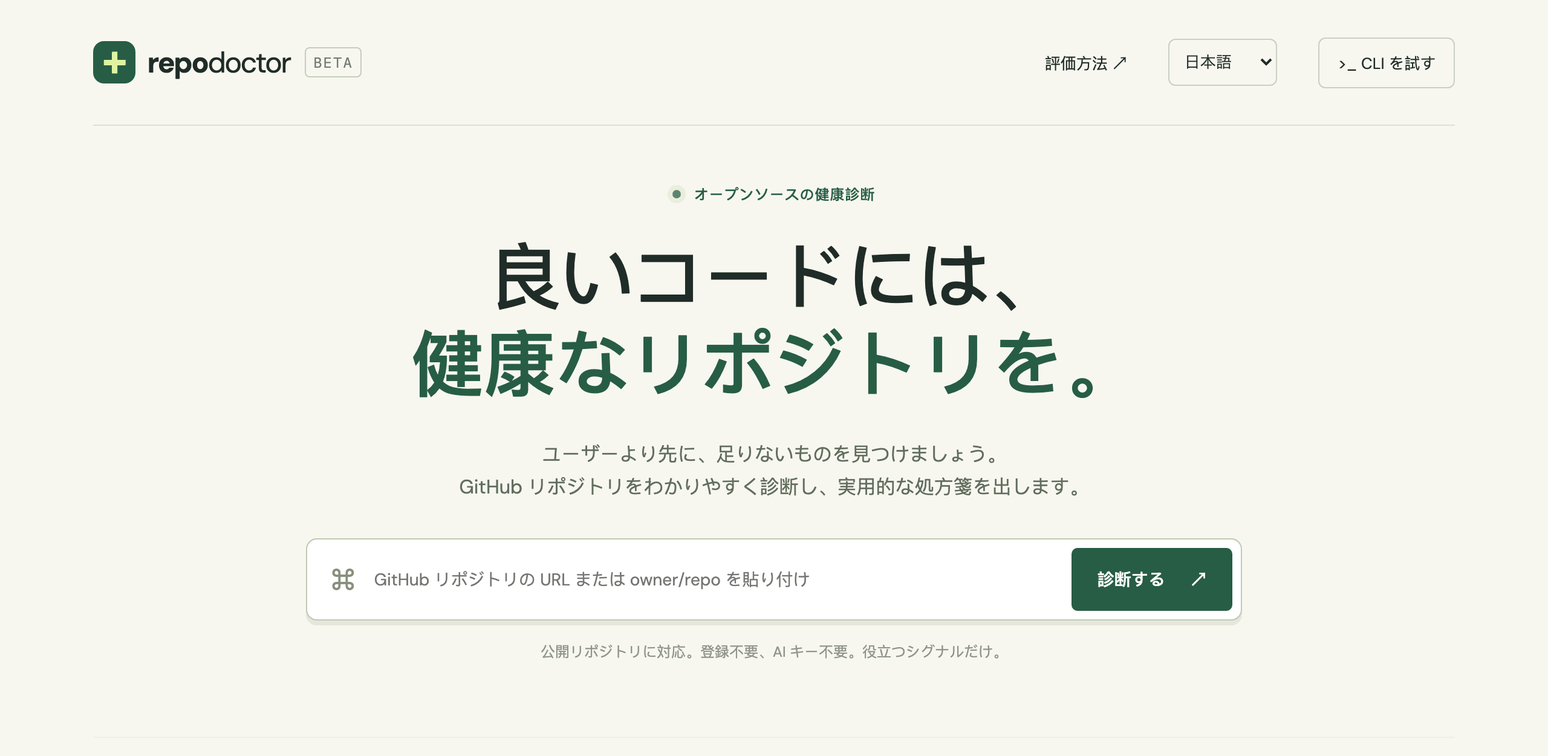
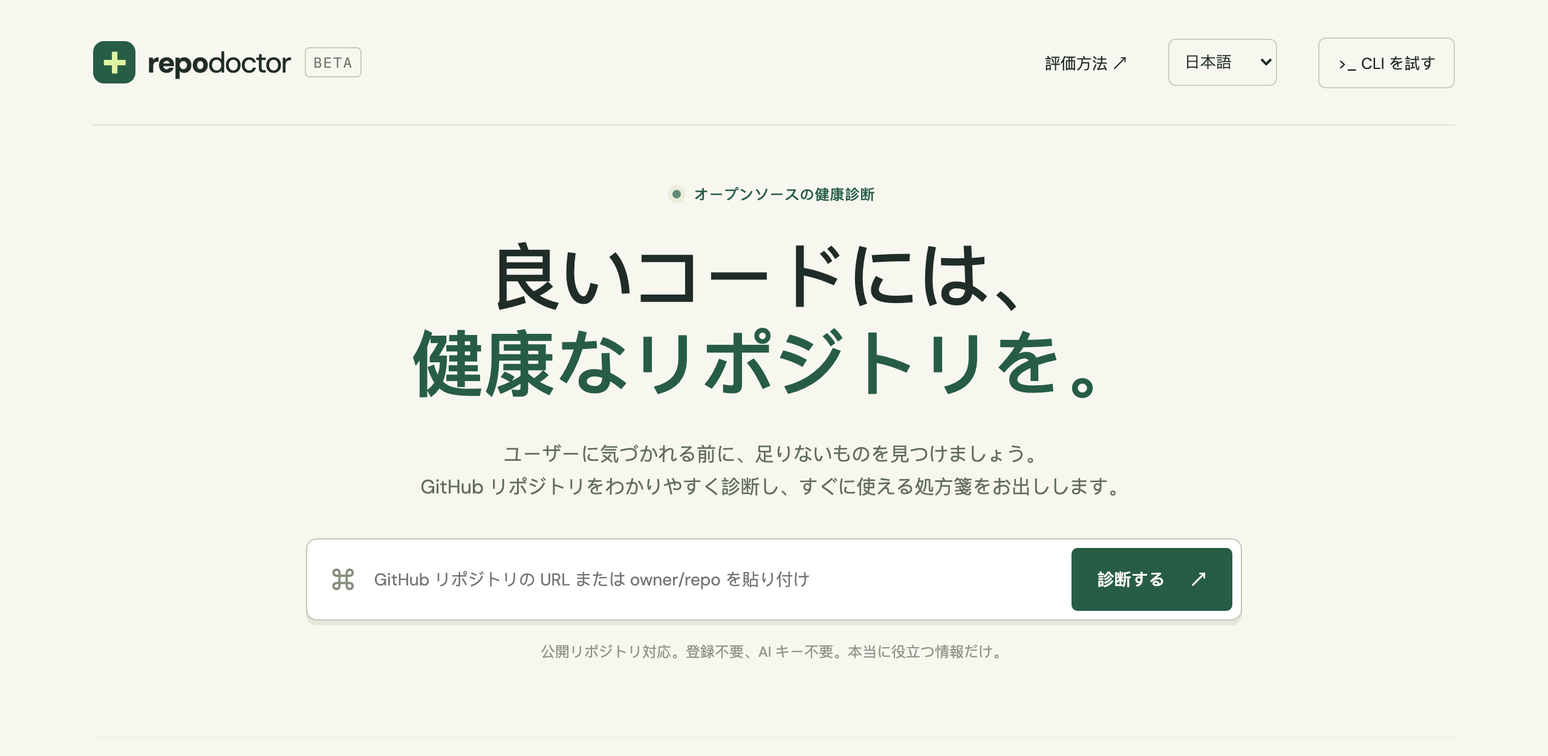
Proofread Chinese and Japanese translations

Changed region(s): [[0.2812, 0.5928, 0.7188, 0.6552], [0.4062, 0.8424, 0.625, 0.8736]]

diff --git a/dist/i18n.js b/dist/i18n.js
@@ -56,40 +56,40 @@ const UI = {
     'hero.intro': '在用户发现之前，找出仓库缺了什么。<br class="desktop">为你的 GitHub 仓库给出清晰的诊断和实用的处方。',
     'input.label': 'GitHub 仓库地址或 owner/repo', 'input.placeholder': '粘贴 GitHub 仓库地址或 owner/repo',
     'scan.button': '开始体检 <span>↗</span>', 'scan.busy': '检查中…',
-    'fine': '支持公开仓库。无需注册，无需 AI Key，只给有用的信号。', 'recent': '最近',
-    'welcome.eyebrow': '细节虽小，第一印象更好', 'welcome.count': '20 项检查 / 5 项指标',
-    'vital.Documentation': '让新用户的前五分钟更轻松。', 'vital.Community': '为贡献者敞开大门。',
-    'vital.CI/CD': '每次提交都值得信赖。', 'vital.Security': '让安全问题有处可报。', 'vital.Structure': '一切井井有条。',
+    'fine': '仅限公开仓库。无需注册，无需 AI Key，只看真正有用的信号。', 'recent': '最近',
+    'welcome.eyebrow': '细节虽小，却决定第一印象', 'welcome.count': '20 项检查 / 5 项指标',
+    'vital.Documentation': '让新用户顺利度过最初五分钟。', 'vital.Community': '为贡献者敞开大门。',
+    'vital.CI/CD': '让每一次提交都值得信赖。', 'vital.Security': '让安全问题有处可报。', 'vital.Structure': '让一切井井有条。',
     'report.eyebrow': '诊断结果', 'report.label': '仓库健康报告', 'mode.label': '报告语气', 'mode.doctor': '✚ 医生', 'mode.roast': '♨ 吐槽',
     'action.link': '⧉ 复制链接', 'action.markdown': '↓ Markdown', 'action.json': '↓ JSON',
-    'score.label': '总体健康度', 'score.outOf': '满分 100', 'score.note': '一点点维护，就能走很远。',
+    'score.label': '总体健康度', 'score.outOf': '满分 100', 'score.note': '日常的一点维护，让项目走得更远。',
     'findings.title': '体检项目', 'filter.label': '筛选检查项', 'filter.all': '全部', 'filter.warn': '需要处理', 'filter.pass': '已通过', 'filter.unknown': '未知',
     'rx.eyebrow': '给仓库一点关爱', 'rx.title': '你的处方', 'rx.intro': '从影响最大的修复开始。链接会打开 GitHub，并准备好文件或设置，由你检查后提交。', 'rx.issue': '＋ 用 GitHub Issue 跟踪这些修复',
-    'badge.eyebrow': '展示一下', 'badge.title': '添加徽章', 'badge.intro': '把这段代码粘贴到 README，点击徽章会重新检查你的仓库。', 'badge.copy': '复制 Markdown',
-    'cli.eyebrow': '在终端里同样好用', 'cli.title': '同一位医生，<br>换个候诊室。', 'cli.intro': '在终端里运行检查。<br>导出 JSON 或 Markdown，在 CI 中设置最低分。', 'cli.comment': '# 在项目目录中运行 · Node.js 22+', 'cli.tag': '零运行时依赖。',
-    'method.eyebrow': '分数不是黑箱', 'method.title': '透明的第二意见。',
-    'method.intro': '20 项检查，总权重 100。我们直接从 GitHub 读取默认分支、README、Release、Issue 和社区资料。每个结论都附有依据。',
+    'badge.eyebrow': '晒出你的分数', 'badge.title': '添加徽章', 'badge.intro': '把这段 Markdown 粘贴到 README 中，别人点击徽章即可查看你仓库的最新体检结果。', 'badge.copy': '复制 Markdown',
+    'cli.eyebrow': '在终端里同样好用', 'cli.title': '同一位医生，<br>换个候诊室。', 'cli.intro': '在终端里运行检查。<br>可导出 JSON 或 Markdown，也可以在 CI 中设置最低分。', 'cli.comment': '# 在项目目录中运行 · Node.js 22+', 'cli.tag': '零运行时依赖。',
+    'method.eyebrow': '分数不是黑箱', 'method.title': '透明、可核查的第二意见。',
+    'method.intro': '共 20 项检查，总分 100。所有数据都直接从 GitHub 读取，包括默认分支、README、Release、Issue 和社区资料。每个结论都附有依据。',
     'method.q1': '分数是怎么算的？',
-    'method.a1': '文档 25 · 社区 20 · CI/CD 20 · 安全 20 · 结构 15。通过的检查项获得相应权重。GitHub 默认会创建 “good first issue” 标签，所以只有真的有 Issue 使用了这个标签才算通过。无法验证的检查项不计入分母，报告会标记为部分检查。缺失的信号只是建议，并不代表项目有问题。',
+    'method.a1': '文档 25 · 社区 20 · CI/CD 20 · 安全 20 · 结构 15。通过的检查项获得相应权重。由于 GitHub 会默认创建 “good first issue” 标签，只有确实有 Issue 使用了该标签才算通过。无法验证的检查项不计入分母，报告会标记为 “检查不完整”。未通过的项目只是改进建议，并不代表项目有问题。',
     'method.q2': '检查什么，不检查什么？',
-    'method.a2': '我们通过元数据、文件路径和 README 内容检查仓库的规范程度。不会执行代码、不验证 CI 结果、不测量测试覆盖率，也不做安全审计。组织级策略和非常规的目录结构可能需要人工确认。每次检查会发送 6 个 GitHub API 请求。',
+    'method.a2': '我们根据元数据、文件路径和 README 内容评估仓库的规范程度，不会执行代码、验证 CI 结果、测量测试覆盖率，也不做安全审计。组织级策略和非常规的目录结构可能需要人工确认。每次检查会发送 6 次 GitHub API 请求。',
     'method.q3': '我的仓库数据会怎样处理？',
     'method.a3': '如果本站服务器配置了 GitHub Token，检查会在服务器上运行，同一仓库的结果最多缓存 10 分钟；否则由你的浏览器直接请求 GitHub（每个 IP 每小时 60 次）。只检查公开仓库，除短暂缓存外不保存任何数据，也绝不会向你索要 Token。私有仓库可以通过 CLI 检查。',
-    'footer.text': '献给创造开源的人。', 'footer.mono': '一点关爱，走得更远 ↗',
+    'footer.text': '献给每一位开源创作者。', 'footer.mono': '多一点关爱，走得更远 ↗',
     'status.connecting': '正在连接 GitHub…', 'status.server': '正在 Repo Doctor 服务器上检查…',
     'status.Finding repository': '正在查找仓库…', 'status.Reading README, project files, and community signals': '正在读取 README、项目文件和社区信息…',
-    'status.done': '检查完成 · 共 {n} 项', 'status.partial': ' · 部分数据无法验证',
-    'status.quota': ' · 本小时还可发送 {n} 个 GitHub API 请求', 'status.keep': '新的检查失败了，下方仍显示 {repo} 的上一份报告。',
+    'status.done': '检查完成 · 已检查 {n} 项', 'status.partial': ' · 部分数据无法验证',
+    'status.quota': ' · 本小时剩余 {n} 次 GitHub API 请求', 'status.keep': '本次检查失败，下方仍是 {repo} 的上一份报告。',
     'err.rate_limit': '已达到 GitHub 每小时请求上限，请在 {time} 之后再试。', 'err.rate_limit_soon': '已达到 GitHub 每小时请求上限，请稍后再试。',
-    'err.not_found': '找不到这个仓库。请检查拼写——这里只能检查公开仓库。',
+    'err.not_found': '找不到该仓库。请检查拼写，并确认它是公开仓库。',
     'err.timeout': 'GitHub 响应超时，请重试。', 'err.network': '无法连接 GitHub，请检查网络后重试。',
     'err.denied': 'GitHub 拒绝了这个请求，请稍后再试。', 'err.bad_input': '请输入 owner/repo 或 GitHub 地址，例如 shianjeng/repo-doctor。',
     'err.busy': '正在检查中，请稍候。',
     'copy.done': '已复制 ✓', 'copy.fail': '复制失败', 'copy.badge': '复制徽章',
-    'meta.line': '{language} · {stars} 星 · 检查于 {date}', 'meta.mixed': '多种语言',
-    'coverage': '{total} 项中通过 {passed} 项 · 评分覆盖率 {coverage}%',
+    'meta.line': '{language} · {stars} 个 Star · 检查于 {date}', 'meta.mixed': '多种语言',
+    'coverage': '通过 {passed}/{total} 项 · 评分覆盖率 {coverage}%',
     'status.pass': '良好', 'status.warn': '需要处理', 'status.unknown': '未知', 'rx.label': '处方：',
-    'points': '{n} 分', 'rx.none': '没有发现缺失项。请继续保持文档和检查的更新。', 'filter.empty': '没有符合筛选条件的检查项。',
+    'points': '{n} 分', 'rx.none': '没有发现缺失项。记得持续更新文档和检查配置。', 'filter.empty': '没有符合筛选条件的检查项。',
     'doc.title': '{repo}：{score}/100 · Repo Doctor',
   },
   ja: {
@@ -97,21 +97,21 @@ const UI = {
     'nav.method': '評価方法 ↗', 'nav.cli': '>_ CLI を試す', 'nav.language': '言語',
     'hero.eyebrow': 'オープンソースの健康診断',
     'hero.title': '良いコードには、<br><em>健康なリポジトリを。</em>',
-    'hero.intro': 'ユーザーより先に、足りないものを見つけましょう。<br class="desktop">GitHub リポジトリをわかりやすく診断し、実用的な処方箋を出します。',
+    'hero.intro': 'ユーザーに気づかれる前に、足りないものを見つけましょう。<br class="desktop">GitHub リポジトリをわかりやすく診断し、すぐに使える処方箋をお出しします。',
     'input.label': 'GitHub リポジトリの URL または owner/repo', 'input.placeholder': 'GitHub リポジトリの URL または owner/repo を貼り付け',
     'scan.button': '診断する <span>↗</span>', 'scan.busy': '診断中…',
-    'fine': '公開リポジトリに対応。登録不要、AI キー不要。役立つシグナルだけ。', 'recent': '最近',
+    'fine': '公開リポジトリ対応。登録不要、AI キー不要。本当に役立つ情報だけ。', 'recent': '最近',
     'welcome.eyebrow': '小さな工夫で、第一印象が変わる', 'welcome.count': '20 項目 / 5 つの指標',
-    'vital.Documentation': '最初の 5 分をスムーズに。', 'vital.Community': 'コントリビューターを歓迎する。',
+    'vital.Documentation': '最初の 5 分をスムーズに。', 'vital.Community': 'コントリビューターを迎え入れる。',
     'vital.CI/CD': 'コミットごとに信頼を築く。', 'vital.Security': '脆弱性報告の窓口を用意する。', 'vital.Structure': 'すべてをあるべき場所に。',
     'report.eyebrow': '診断結果', 'report.label': 'リポジトリ健康レポート', 'mode.label': 'レポートの口調', 'mode.doctor': '✚ ドクター', 'mode.roast': '♨ 辛口',
     'action.link': '⧉ リンクをコピー', 'action.markdown': '↓ Markdown', 'action.json': '↓ JSON',
     'score.label': '総合スコア', 'score.outOf': '100 点満点', 'score.note': '少しの手入れが、大きな違いに。',
     'findings.title': '診断項目', 'filter.label': '項目を絞り込む', 'filter.all': 'すべて', 'filter.warn': '要対応', 'filter.pass': '合格', 'filter.unknown': '不明',
     'rx.eyebrow': 'リポジトリにちょっとしたケアを', 'rx.title': '処方箋', 'rx.intro': '効果の大きいものから始めましょう。リンクを開くと、ファイルや設定が準備された GitHub の画面が表示されます。内容を確認してから保存してください。', 'rx.issue': '＋ GitHub Issue で対応を管理',
-    'badge.eyebrow': 'シェアしよう', 'badge.title': 'バッジを追加', 'badge.intro': 'README に貼り付けてください。バッジをクリックすると最新の診断が開きます。', 'badge.copy': 'Markdown をコピー',
+    'badge.eyebrow': 'スコアを見せよう', 'badge.title': 'バッジを追加', 'badge.intro': 'この Markdown を README に貼り付けてください。バッジをクリックすると、リポジトリの最新の診断結果が開きます。', 'badge.copy': 'Markdown をコピー',
     'cli.eyebrow': 'ターミナルでも使える', 'cli.title': '同じドクター、<br>別の待合室。', 'cli.intro': 'ターミナルから診断できます。<br>JSON や Markdown で出力し、CI で最低スコアを設定できます。', 'cli.comment': '# プロジェクトのディレクトリで実行 · Node.js 22+', 'cli.tag': 'ランタイム依存ゼロ。',
-    'method.eyebrow': 'スコアはブラックボックスではありません', 'method.title': '透明なセカンドオピニオン。',
+    'method.eyebrow': 'スコアはブラックボックスではありません', 'method.title': '根拠が見える、セカンドオピニオン。',
     'method.intro': '合計 100 点、20 項目のチェック。デフォルトブランチ、README、リリース、Issue、コミュニティ情報を GitHub から直接読み取ります。すべての結果に根拠を示します。',
     'method.q1': 'スコアはどう計算されますか？',
     'method.a1': 'ドキュメント 25 · コミュニティ 20 · CI/CD 20 · セキュリティ 20 · 構成 15。合格した項目の配点が加算されます。“good first issue” ラベルは GitHub が自動で作成するため、実際に Issue で使われている場合のみ合格です。確認できなかった項目は分母から除外され、レポートは「部分的な診断」と表示されます。未達の項目は提案であり、プロジェクトに問題がある証拠ではありません。',
@@ -123,17 +123,17 @@ const UI = {
     'status.connecting': 'GitHub に接続しています…', 'status.server': 'Repo Doctor のサーバーで診断しています…',
     'status.Finding repository': 'リポジトリを探しています…', 'status.Reading README, project files, and community signals': 'README、ファイル、コミュニティ情報を読み込んでいます…',
     'status.done': '診断完了 · {n} 項目を確認', 'status.partial': ' · 一部のデータを確認できませんでした',
-    'status.quota': ' · この 1 時間の GitHub API 残り {n} 回', 'status.keep': '新しい診断に失敗しました。{repo} の前回のレポートを表示しています。',
+    'status.quota': ' · この 1 時間の GitHub API 残り {n} 回', 'status.keep': '診断に失敗しました。下には {repo} の前回のレポートが表示されています。',
     'err.rate_limit': 'GitHub の 1 時間あたりのリクエスト上限に達しました。{time} 以降にもう一度お試しください。', 'err.rate_limit_soon': 'GitHub の 1 時間あたりのリクエスト上限に達しました。しばらくしてからお試しください。',
-    'err.not_found': 'リポジトリが見つかりません。スペルを確認してください。診断できるのは公開リポジトリのみです。',
+    'err.not_found': 'リポジトリが見つかりません。スペルと、公開リポジトリであることをご確認ください。',
     'err.timeout': 'GitHub の応答がタイムアウトしました。もう一度お試しください。', 'err.network': 'GitHub に接続できません。ネットワークを確認してもう一度お試しください。',
     'err.denied': 'GitHub がリクエストを拒否しました。しばらくしてからお試しください。', 'err.bad_input': 'owner/repo または GitHub の URL を入力してください（例：shianjeng/repo-doctor）。',
     'err.busy': '診断中です。しばらくお待ちください。',
     'copy.done': 'コピーしました ✓', 'copy.fail': 'コピーに失敗しました', 'copy.badge': 'バッジをコピー',
     'meta.line': '{language} · スター {stars} · {date} に診断', 'meta.mixed': '複数の言語',
-    'coverage': '{total} 項目中 {passed} 項目合格 · 採点カバー率 {coverage}%',
+    'coverage': '{passed}/{total} 項目合格 · 採点カバー率 {coverage}%',
     'status.pass': '良好', 'status.warn': '要対応', 'status.unknown': '不明', 'rx.label': '処方：',
-    'points': '{n} 点', 'rx.none': '不足している項目は見つかりませんでした。ドキュメントとチェックを最新に保ちましょう。', 'filter.empty': '条件に合う項目はありません。',
+    'points': '{n} 点', 'rx.none': '不足している項目はありません。ドキュメントとチェック設定を最新に保ちましょう。', 'filter.empty': '条件に合う項目はありません。',
     'doc.title': '{repo}：{score}/100 · Repo Doctor',
   },
 };
@@ -141,16 +141,16 @@ const UI = {
 const REPORT = {
   zh: {
     category: { Documentation: '文档', Community: '社区', 'CI/CD': 'CI/CD', Security: '安全', Structure: '结构' },
-    health: { Healthy: '健康', 'Needs attention': '需要关注', 'Needs care': '需要护理', 'Partial check': '部分检查' },
+    health: { Healthy: '健康', 'Needs attention': '有待改进', 'Needs care': '亟需改善', 'Partial check': '检查不完整' },
     title: {
       readme: 'README', installation: '安装说明', usage: '使用示例', demo: '演示或预览图', badge: 'CI 状态徽章',
       license: '许可证', contributing: '贡献指南', conduct: '行为准则', templates: 'Issue 模板', 'first-issue': '新手友好 Issue',
       ci: 'CI 配置', tests: '测试文件', releases: '已发布的 Release', security: '安全策略', dependencies: '依赖更新配置',
-      'security-automation': '安全扫描工作流', manifest: '项目清单文件', lockfile: '依赖锁文件', layout: '清晰的目录结构', editor: '格式化配置',
+      'security-automation': '安全扫描工作流', manifest: '项目清单（manifest）', lockfile: '依赖锁文件', layout: '清晰的目录结构', editor: '代码格式化配置',
     },
     fix: {
       readme: '写一份 README，说明项目做什么、给谁用、如何上手。',
-      installation: '添加 “安装” 或 “快速开始” 章节，附上经过测试、可直接复制的命令。',
+      installation: '添加 “安装” 或 “快速开始” 章节，附上经过验证、可直接复制的命令。',
       usage: '在 “用法” 标题下展示一个最小的输入 / 输出示例。',
       demo: '在安装说明上方添加截图、演示 GIF 或在线演示链接，或设置仓库的网站地址。',
       badge: '添加一个链接到工作流结果的 CI 状态徽章。',
@@ -164,8 +164,8 @@ const REPORT = {
       releases: '发布一个带版本号的 GitHub Release，附上安装说明和更新内容。',
       security: '添加 SECURITY.md，说明支持的版本和私下报告漏洞的方式。',
       dependencies: '为项目使用的依赖生态配置 Dependabot 或 Renovate。',
-      'security-automation': '添加合适的安全扫描工具，或手动确认已开启 GitHub 默认设置。',
-      manifest: '添加标准的包管理 / 构建清单文件，或说明仓库的组织方式。',
+      'security-automation': '添加合适的安全扫描工具，或手动确认已开启 GitHub 的默认代码扫描。',
+      manifest: '添加标准的包管理或构建配置文件（如 package.json、pyproject.toml），或在文档中说明仓库结构。',
       lockfile: '在适合你的生态和发布方式时，提交依赖锁文件。',
       layout: '把源码、文档或示例放进命名清晰的目录。',
       editor: '添加 .editorconfig 或对应生态的格式化配置。',
@@ -173,14 +173,14 @@ const REPORT = {
     evidence: {
       unknown: '无法从现有的 GitHub 数据中确认这一项。',
       'readme.pass': 'GitHub 返回了非空的 README。', 'readme.warn': '没有找到可读取的 README。',
-      installation: '已在 README 中查找安装或快速开始说明。', usage: '已在 README 中查找用法或示例标题。',
+      installation: '已在 README 中查找安装或快速开始的说明。', usage: '已在 README 中查找用法或示例标题。',
       'demo.site': '仓库网站：{url}', demo: '已在 README 中查找非徽章的图片、视频或演示链接，并检查了仓库网站字段。',
       badge: '已在 README 中查找可识别的 CI 徽章地址。',
       'license.spdx': 'GitHub 识别为 {spdx}。', license: '已检查 GitHub 元数据和常见的许可证文件；文件存在不代表法律上有效。',
       contributing: '已检查仓库和 GitHub 社区资料中的贡献指南文件。', conduct: '已检查仓库和 GitHub 社区资料中的行为准则文件。',
       templates: '已查找 Issue 模板和 Issue 表单。',
-      'first-issue.disabled': 'Issue 功能已关闭，新人无从下手。', 'first-issue': '查找了至少一个带 “good first issue” 标签的 Issue（开启或关闭均可）。GitHub 默认会创建这个标签，所以只有标签本身不算。',
-      ci: '识别到自动化配置文件。未验证工作流是否运行或通过。', tests: '已查找常见的测试路径和文件名；未测量覆盖率和正确性。',
+      'first-issue.disabled': '仓库关闭了 Issue 功能，新人无从下手。', 'first-issue': '查找了至少一个带 “good first issue” 标签的 Issue（开启或关闭均可）。GitHub 默认会创建这个标签，所以只有标签本身不算。',
+      ci: '识别到了自动化配置文件，但未验证工作流是否运行或通过。', tests: '已查找常见的测试路径和文件名；未测量覆盖率和正确性。',
       'releases.tag': '最新正式版本：{tag}。', releases: '没有找到已发布的正式 GitHub Release（非草稿、非预发布）。',
       security: '已在仓库中查找 SECURITY.md 或同类安全策略文件。', dependencies: '已查找 Dependabot 或 Renovate 配置。组织级设置在这里不可见。',
       'security-automation': '根据工作流文件名判断，属于启发式检查。默认设置和组织级扫描可能不可见。',
@@ -207,34 +207,34 @@ const REPORT = {
     sources: { tree: '文件树', readme: 'README', community: '社区资料', release: 'Release', firstIssues: 'good first issue' },
     roast: {
       readme: '你的代码加入了证人保护计划。写个 README，大家才知道它是干什么的。',
-      ci: '没有 CI？真勇敢。每次合并都是一次没人接的信任背摔。',
-      security: '你的仓库有前门，却没装安全问题的门铃。给善意的黑客留个敲门的地方吧。',
+      ci: '没有 CI？真勇敢。每次合并都像在走没有安全绳的钢丝。',
+      security: '你的仓库有大门，却没装报告漏洞的门铃。给善意的黑客留个敲门的地方吧。',
       license: '没有许可证就等于 “保留所有权利”。你建了个游乐场，又在外面围了一圈栅栏。',
-      tests: '“在我电脑上能跑” 扛下了太多。让测试分担一点吧。',
-      contributing: '你邀请全世界来协作，却忘了发路线图。',
+      tests: '“在我电脑上能跑” 已经扛下了太多，让测试来分担一点吧。',
+      contributing: '你邀请全世界来协作，却忘了告诉大家该怎么参与。',
       installation: '项目很棒。要是有人知道怎么安装就更好了。',
-      usage: '装上了！然后……全凭感觉。告诉大家到底该输入什么。',
-      releases: '没有 Release，只有一个 main 分支和一句祈祷。打个标签吧，未来的你会感谢现在的你。',
-      demo: 'README 写了一千行，却没有一张图。给你的项目来个特写吧。',
-      dependencies: '你的依赖像牛奶一样在变质，却没人看保质期。让机器人来盯着吧。',
-      partial: '化验结果不完整。吐槽也得讲证据。',
-      minor: '只剩一点文书工作了。很难吐槽一个每天都用牙线的仓库。',
-      clean: '体面得令人恼火。你让这次吐槽变得相当困难。',
+      usage: '装好了！然后呢……全靠猜。告诉大家到底该怎么用吧。',
+      releases: '没有 Release，只有一个 main 分支和满心祈祷。打个版本标签吧，未来的你会感谢现在的你。',
+      demo: 'README 写了上千字，却一张图都没有。给你的项目来个特写吧。',
+      dependencies: '你的依赖正像牛奶一样慢慢变质，却没人看保质期。交给机器人盯着吧。',
+      partial: '化验结果还不完整。吐槽也得讲证据。',
+      minor: '只剩一些零碎的小事了。这么爱干净的仓库，实在不好下嘴吐槽。',
+      clean: '完美得让人有点恼火，这下真不知道该吐槽什么了。',
     },
-    disclaimer: '这是仓库规范程度的信号，不是安全审计或代码质量保证。文件检测是启发式的；未验证 CI 结果和测试覆盖率。',
+    disclaimer: '以上是反映仓库规范程度的信号，不是安全审计，也不代表代码质量。文件检测基于经验规则，不验证 CI 结果和测试覆盖率。',
   },
   ja: {
     category: { Documentation: 'ドキュメント', Community: 'コミュニティ', 'CI/CD': 'CI/CD', Security: 'セキュリティ', Structure: '構成' },
-    health: { Healthy: '健康', 'Needs attention': '要注意', 'Needs care': '要ケア', 'Partial check': '部分的な診断' },
+    health: { Healthy: '健康', 'Needs attention': '要注意', 'Needs care': '要改善', 'Partial check': '部分的な診断' },
     title: {
       readme: 'README', installation: 'インストール手順', usage: '使用例', demo: 'デモ・プレビュー', badge: 'CI ステータスバッジ',
-      license: 'ライセンス', contributing: 'コントリビューションガイド', conduct: '行動規範', templates: 'Issue テンプレート', 'first-issue': 'Good first issue',
+      license: 'ライセンス', contributing: 'コントリビューションガイド', conduct: '行動規範', templates: 'Issue テンプレート', 'first-issue': '初心者向け Issue',
       ci: 'CI 設定', tests: 'テストファイル', releases: '公開済みリリース', security: 'セキュリティポリシー', dependencies: '依存関係の更新設定',
-      'security-automation': 'セキュリティスキャン', manifest: 'プロジェクトマニフェスト', lockfile: 'ロックファイル', layout: '整理されたディレクトリ', editor: 'フォーマット設定',
+      'security-automation': 'セキュリティスキャンの設定', manifest: 'プロジェクトマニフェスト', lockfile: 'ロックファイル', layout: '整理されたディレクトリ構成', editor: 'フォーマット設定',
     },
     fix: {
       readme: 'プロジェクトの内容、対象ユーザー、始め方を説明する README を書きましょう。',
-      installation: '動作確認済みでコピーしやすいコマンド付きの「インストール」または「クイックスタート」を追加しましょう。',
+      installation: '「インストール」または「クイックスタート」の節を追加し、動作確認済みのコマンドをそのままコピーできるようにしましょう。',
       usage: '「使い方」の見出しの下に、最小限の入力と出力の例を載せましょう。',
       demo: 'インストール手順の上にスクリーンショット、デモ GIF、ライブデモのリンクを追加するか、リポジトリのウェブサイトを設定しましょう。',
       badge: 'ワークフローの結果にリンクする CI ステータスバッジを追加しましょう。',
@@ -242,14 +242,14 @@ const REPORT = {
       contributing: '環境構築、チェック方法、プルリクエストの流れを書いた CONTRIBUTING.md を追加しましょう。',
       conduct: 'CODE_OF_CONDUCT.md と、実際に使える非公開の報告窓口を用意しましょう。',
       templates: '.github/ISSUE_TEMPLATE/ にバグ報告と機能要望のテンプレートを追加しましょう。',
-      'first-issue': '小さくて説明の明確なタスクに good first issue ラベルを付け、新しい人が始めやすくしましょう。',
+      'first-issue': '小さく、説明の明確なタスクに good first issue ラベルを付けて、初めての人が参加しやすくしましょう。',
       ci: 'プッシュとプルリクエストでチェックを実行する CI ワークフローを追加しましょう。',
       tests: '主要な使い方をカバーするテストを追加し、CI で実行しましょう。',
       releases: 'インストール方法と変更点を記載したバージョン付きの GitHub リリースを公開しましょう。',
       security: 'サポート対象のバージョンと非公開の脆弱性報告方法を書いた SECURITY.md を追加しましょう。',
       dependencies: '使用しているエコシステム向けに Dependabot または Renovate を設定しましょう。',
       'security-automation': '適切なセキュリティスキャナーを追加するか、GitHub のデフォルト設定が有効か手動で確認しましょう。',
-      manifest: '標準的なパッケージ/ビルドのマニフェストを追加するか、リポジトリの構成を説明しましょう。',
+      manifest: 'package.json や pyproject.toml などの標準的なパッケージ・ビルド設定を追加するか、リポジトリの構成を説明しましょう。',
       lockfile: 'エコシステムや配布方法に合う場合は、ロックファイルをコミットしましょう。',
       layout: 'ソース、ドキュメント、サンプルをわかりやすい名前のディレクトリにまとめましょう。',
       editor: '.editorconfig またはエコシステムに合ったフォーマッターの設定を追加しましょう。',
@@ -263,7 +263,7 @@ const REPORT = {
       'license.spdx': 'GitHub が {spdx} と判定しました。', license: 'GitHub のメタデータと一般的なライセンスファイルを確認しました。ファイルがあっても法的な有効性は保証されません。',
       contributing: 'リポジトリと GitHub のコミュニティ情報でコントリビューションガイドを確認しました。', conduct: 'リポジトリと GitHub のコミュニティ情報で行動規範を確認しました。',
       templates: 'Issue テンプレートと Issue フォームを確認しました。',
-      'first-issue.disabled': 'Issue が無効になっているため、新しい人が始める場所がありません。', 'first-issue': '“good first issue” ラベル付きの Issue（オープン・クローズ問わず）を探しました。ラベル自体は GitHub が自動で作成するため、ラベルだけでは合格になりません。',
+      'first-issue.disabled': 'Issue が無効になっているため、初めての人が参加するきっかけがありません。', 'first-issue': '“good first issue” ラベル付きの Issue（オープン・クローズ問わず）を探しました。ラベル自体は GitHub が自動で作成するため、ラベルだけでは合格になりません。',
       ci: '自動化の設定ファイルを検出しました。ワークフローの実行や成功は確認していません。', tests: '一般的なテストのパスとファイル名を確認しました。カバレッジや正しさは測定していません。',
       'releases.tag': '最新の正式リリース：{tag}。', releases: '公開済みの正式な GitHub リリース（下書き・プレリリース以外）が見つかりませんでした。',
       security: 'SECURITY.md または同等のポリシーファイルを確認しました。', dependencies: 'Dependabot または Renovate の設定を確認しました。組織レベルの設定はここでは見えません。',
@@ -291,21 +291,21 @@ const REPORT = {
     sources: { tree: 'ファイルツリー', readme: 'README', community: 'コミュニティ情報', release: 'リリース', firstIssues: 'good first issue' },
     roast: {
       readme: 'あなたのコードは証人保護プログラムに入ったようです。README があれば、何をするものか分かるのですが。',
-      ci: 'CI なし？ 大胆ですね。毎回のマージが、誰も受け止めてくれないトラストフォールです。',
-      security: '玄関はあるのに、セキュリティ報告用の呼び鈴がありません。善意のハッカーがノックできる場所を。',
-      license: 'ライセンスがなければ「無断使用禁止」。遊び場をつくって、周りをフェンスで囲んだ状態です。',
+      ci: 'CI なし？ 大胆ですね。毎回のマージが、命綱なしの綱渡りです。',
+      security: '玄関はあるのに、脆弱性を知らせる呼び鈴がありません。善意のハッカーがノックできる場所を用意しましょう。',
+      license: 'ライセンスがなければ「無断使用禁止」と同じ。遊び場をつくったのに、周りをフェンスで囲っているようなものです。',
       tests: '「自分の環境では動く」に頼りすぎです。少しはテストに任せましょう。',
       contributing: '世界中を共同作業に招待したのに、道案内を送り忘れています。',
-      installation: '素晴らしいプロジェクトです。インストール方法さえ分かれば。',
-      usage: 'インストールできた！ そして……あとは雰囲気で。何を入力すればいいか教えてください。',
+      installation: '素晴らしいプロジェクトです。インストール方法さえ分かれば、の話ですが。',
+      usage: 'インストールできた！ で、次は……勘で使うしかありません。何を入力すればいいか教えてあげましょう。',
       releases: 'リリースなし。あるのは main ブランチと祈りだけ。タグを打てば、未来の自分が感謝します。',
-      demo: 'README は千行あるのに、見せ場がありません。プロジェクトにクローズアップを。',
-      dependencies: '依存関係が牛乳のように傷んでいくのに、誰も賞味期限を見ていません。ボットに任せましょう。',
+      demo: 'README は長いのに、画像が一枚もありません。スクリーンショットで主役を見せてあげましょう。',
+      dependencies: '依存関係が牛乳のように傷んでいくのに、誰も賞味期限を見ていません。チェックはボットに任せましょう。',
       partial: '検査結果が揃っていません。辛口にも証拠が必要です。',
-      minor: '残りは細かい書類仕事だけ。毎日フロスするリポジトリは、いじりにくいものです。',
-      clean: '悔しいほど立派です。辛口コメントがかなり難しくなりました。',
+      minor: '残るは細かい作業だけ。ここまで手入れが行き届いていると、ツッコミようがありません。',
+      clean: '悔しいほど完璧です。これでは辛口のネタがありません。',
     },
-    disclaimer: 'リポジトリの整備状況を示すシグナルであり、セキュリティ監査やコード品質の保証ではありません。ファイル検出は推定に基づき、CI の結果やテストカバレッジは検証していません。',
+    disclaimer: 'この結果はリポジトリの整備状況を示す目安であり、セキュリティ監査やコード品質を保証するものではありません。ファイルの検出は推定に基づくもので、CI の結果やテストカバレッジは検証していません。',
   },
 };
 

diff --git a/README.zh-CN.md b/README.zh-CN.md
@@ -14,14 +14,14 @@
 
 [![Repo Doctor 首页](docs/images/hero-zh.png)](https://repo-doctor.hank-vermilion.workers.dev/?lang=zh)
 
-20 项透明的检查，5 项健康指标，附带一键修复的实用处方，还有可选的温和吐槽模式。**不需要 AI Key，没有运行时依赖。**
+20 项透明的检查，5 项健康指标，附带可一键修复的实用处方，还有可选的吐槽模式。**不需要 AI Key，没有运行时依赖。**
 
 - **一键修复**：每个问题都链接到 GitHub 上对应的修复页面。SECURITY.md、CONTRIBUTING.md、CI 工作流、dependabot.yml 等会预先填好模板，由你检查后提交。
-- **可分享的报告**：`?repo=owner/repo` 链接打开时会重新检查；可导出 Markdown 或 JSON。
-- **README 徽章**：展示你的分数，点击徽章会重新检查。
+- **可分享的报告**：打开 `?repo=owner/repo` 链接即可查看最新检查结果，也可导出 Markdown 或 JSON。
+- **README 徽章**：在 README 中展示分数，点击徽章即可查看最新结果。
 - **跟踪修复**：一键把处方变成带勾选框的 GitHub Issue。
 - **English、简体中文、日本語**：网站会跟随浏览器语言，也可以随时切换。
-- **CI 模式**：分数低于设定值时让流水线失败。
+- **CI 模式**：分数低于设定值时，让 CI 流水线失败。
 
 ![shianjeng/FX-Pulses 的 Repo Doctor 报告](docs/images/report-zh.png)
 
@@ -50,7 +50,7 @@ repo-doctor shianjeng/FX-Pulses
 
 ![shianjeng/FX-Pulses 的 CLI 输出](docs/images/cli.svg)
 
-主要建议：添加安全策略、贡献指南、依赖更新配置、安全扫描，并发布一个 Release。这是真实记录的检查结果，不是写死的数据。安全类只衡量可见的规范信号，0 分**不代表**仓库不安全。
+主要建议：添加安全策略、贡献指南、依赖更新配置和安全扫描，并发布一个 Release。这是真实的检查记录，不是写死的演示数据。安全类只衡量可见的规范信号，0 分**不代表**仓库不安全。
 
 机器可读的快照在 [examples/FX-Pulses.json](examples/FX-Pulses.json)。CLI 和网站每次都会请求最新的 GitHub 数据。
 
@@ -111,15 +111,15 @@ npx wrangler deploy
 | 社区 | 20 | 许可证 8、贡献指南 5、行为准则 2、Issue 模板 3、新手友好 Issue 2 |
 | CI/CD | 20 | CI 配置 10、测试文件 6、已发布的 Release 4 |
 | 安全 | 20 | 安全策略 10、依赖更新 5、安全扫描工作流 5 |
-| 结构 | 15 | 项目清单文件 6、锁文件 4、目录结构 3、格式化配置 2 |
+| 结构 | 15 | 项目清单 6、锁文件 4、目录结构 3、代码格式化配置 2 |
 
 `分数 = round(通过的权重 / 已验证的权重 × 100)`
 
-无法获取的数据不计入分母，并始终显示评分覆盖率。覆盖率低于 100% 的报告标记为 **部分检查**，无法通过 CI 阈值。GitHub 截断文件树时，看不到的文件不会被当作缺失。没有检测到需要锁文件的生态时，锁文件项视为通过。修复建议按权重排序，不代表安全严重程度。
+无法获取的数据不计入分母，报告中始终会显示评分覆盖率。覆盖率低于 100% 的报告标记为 **检查不完整**，无法通过 CI 阈值。GitHub 截断文件树时，看不到的文件不会被当作缺失。没有检测到需要锁文件的生态时，锁文件项视为通过。修复建议按权重排序，不代表安全严重程度。
 
 ### 局限与解读
 
-- 这是**启发式的仓库规范检查**，不是安全审计、法律审查、测试执行或代码质量评估。
+- 这是**基于经验规则的仓库规范检查**，不是安全审计、法律审查、测试执行或代码质量评估。
 - 检测到 CI 只表示存在可识别的自动化配置文件，不验证测试任务、运行结果或分支保护。
 - 安全扫描根据文件名判断。GitHub 默认设置、组织级扫描、继承的安全策略、自定义命名和不支持的生态可能需要人工确认。
 - 演示图片可以是截图或 Logo，不会分析图片内容。README 内容检查可能漏掉其他语言或格式。
@@ -128,7 +128,7 @@ npx wrangler deploy
 - GitHub 会在每个新仓库自动创建 `good first issue` 标签，所以至少要有一个 Issue（开启或关闭均可）使用了这个标签才算通过。
 - 仓库网站（About → Website）视为在线演示。
 - 每次检查发送 6 个 GitHub API 请求。API 失败时会如实报告，不会编造数据。
-- 检查读取的是默认分支，检查过程中仓库可能发生变化，不是某个提交的原子快照。
+- 检查读取的是默认分支。检查过程中仓库可能发生变化，因此结果不是某个提交的精确快照。
 
 ## 开发
 

diff --git a/README.ja.md b/README.ja.md
@@ -6,7 +6,7 @@
 [![CodeQL](https://github.com/shianjeng/repo-doctor/actions/workflows/codeql.yml/badge.svg)](https://github.com/shianjeng/repo-doctor/actions/workflows/codeql.yml)
 [![License: MIT](https://img.shields.io/badge/license-MIT-blue)](LICENSE)
 
-**ユーザーより先に、GitHub リポジトリに足りないものを見つけましょう。**
+**ユーザーに気づかれる前に、GitHub リポジトリに足りないものを見つけましょう。**
 
 リポジトリの URL を貼るだけで、30 秒でオープンソースの健康診断ができます。
 
@@ -14,11 +14,11 @@
 
 [![Repo Doctor のトップページ](docs/images/hero-ja.png)](https://repo-doctor.hank-vermilion.workers.dev/?lang=ja)
 
-透明性のある 20 項目のチェックと 5 つの指標で診断し、ワンクリックで直せる処方箋を出します。辛口モードもあります。**AI キー不要、ランタイム依存ゼロ。**
+根拠の見える 20 項目のチェックと 5 つの指標で診断し、ワンクリックで直せる処方箋をお出しします。辛口モードもあります。**AI キー不要、ランタイム依存ゼロ。**
 
 - **ワンクリック修正**：各項目から、修正用の GitHub ページに直接移動できます。SECURITY.md、CONTRIBUTING.md、CI ワークフロー、dependabot.yml などはテンプレートが入力済みで、確認してから保存できます。
 - **共有できるレポート**：`?repo=owner/repo` のリンクを開くと最新の診断が表示されます。Markdown や JSON でも出力できます。
-- **README バッジ**：スコアを表示し、クリックすると最新の診断が開きます。
+- **README バッジ**：README にスコアを表示し、クリックすると最新の診断結果が開きます。
 - **対応の管理**：処方箋をワンクリックでチェックリスト付きの GitHub Issue にできます。
 - **English・简体中文・日本語**：ブラウザの言語に合わせて表示し、いつでも切り替えられます。
 - **CI モード**：スコアが基準を下回るとパイプラインを失敗させます。
@@ -108,10 +108,10 @@ npx wrangler deploy
 | カテゴリ | 配点 | 項目 |
 | --- | ---: | --- |
 | ドキュメント | 25 | README 10、インストール手順 5、使用例 5、デモ 3、CI バッジ 2 |
-| コミュニティ | 20 | ライセンス 8、コントリビューションガイド 5、行動規範 2、Issue テンプレート 3、Good first issue 2 |
+| コミュニティ | 20 | ライセンス 8、コントリビューションガイド 5、行動規範 2、Issue テンプレート 3、初心者向け Issue 2 |
 | CI/CD | 20 | CI 設定 10、テストファイル 6、公開済みリリース 4 |
-| セキュリティ | 20 | セキュリティポリシー 10、依存関係の更新 5、セキュリティスキャン 5 |
-| 構成 | 15 | マニフェスト 6、ロックファイル 4、ディレクトリ構成 3、フォーマット設定 2 |
+| セキュリティ | 20 | セキュリティポリシー 10、依存関係の更新 5、セキュリティスキャンの設定 5 |
+| 構成 | 15 | プロジェクトマニフェスト 6、ロックファイル 4、ディレクトリ構成 3、フォーマット設定 2 |
 
 `スコア = round(合格した配点 / 確認できた配点 × 100)`
 
@@ -119,7 +119,7 @@ npx wrangler deploy
 
 ### 制限と解釈
 
-- これは**推定に基づくリポジトリ整備状況のチェック**であり、セキュリティ監査、法的レビュー、テスト実行、コード品質の評価ではありません。
+- これは**経験則に基づくリポジトリ整備状況のチェック**であり、セキュリティ監査、法的レビュー、テスト実行、コード品質の評価ではありません。
 - CI の検出は、認識できる自動化ファイルがあることを示すだけで、テストジョブ、実行結果、ブランチ保護は確認しません。
 - セキュリティスキャンはファイル名で判定します。GitHub のデフォルト設定、組織レベルのスキャナー、継承されたポリシー、独自の命名、未対応のエコシステムは手動で確認が必要な場合があります。
 - デモ画像はスクリーンショットでもロゴでも構いません。画像の内容は解析しません。README の判定では他の言語や形式を見落とすことがあります。
